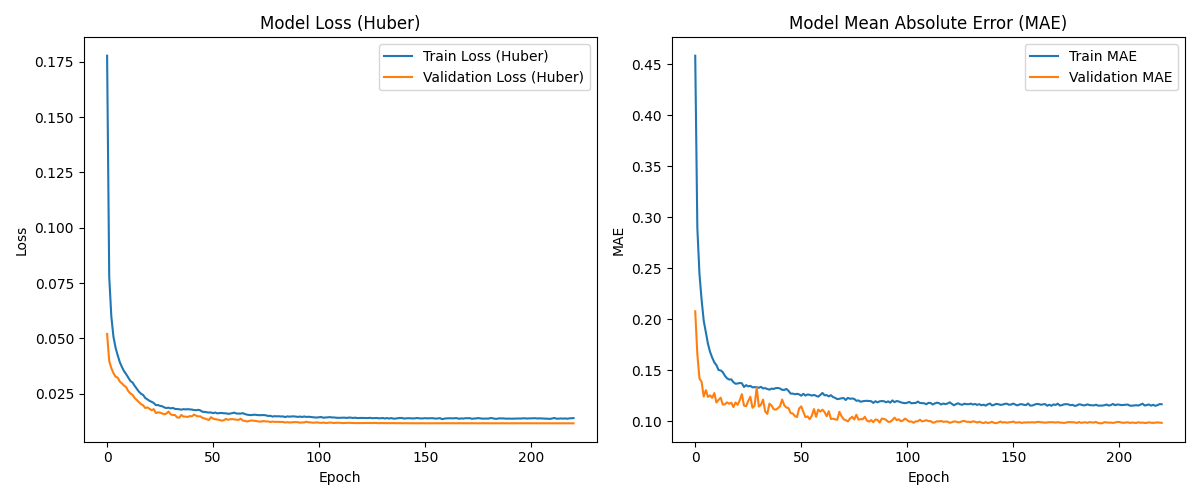
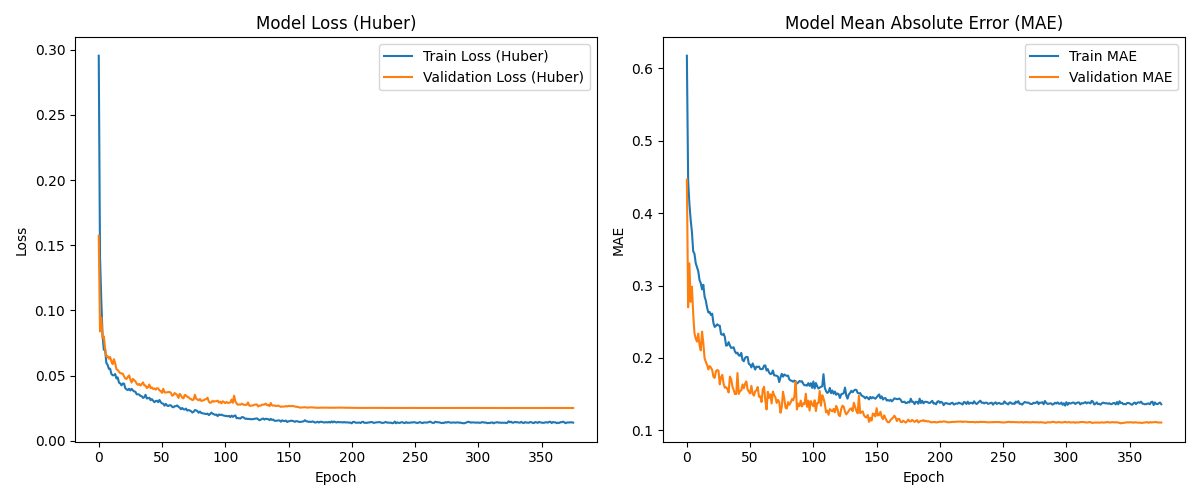
CLAUD.md更新

diff --git a/search_network_architecture.py b/search_network_architecture.py
@@ -1,0 +1,189 @@
+# -*- coding: utf-8 -*-
+"""
+train_reward_network2.py のネットワーク構成探索スクリプト
+
+隠れ層の深さ（1～3層）× ユニット数（256～16、2の累乗）×
+構成パターン（全層同一 / ピラミッド型・半減）を総当たりで学習し、
+val_loss / val_MAE を比較して最良の構成を探す。
+
+- 前処理・train/test分割（stratify, random_state=42）は全構成で共通
+- 損失関数・最適化・正則化は train_reward_network2.py と同一条件
+- 各構成を3シードで学習し平均±標準偏差で評価（乱数の影響を抑制）
+- 出力層は回帰問題のため恒等関数（linear）で固定
+"""
+import os
+import json
+import time
+import numpy as np
+import pandas as pd
+import tensorflow as tf
+from tensorflow.keras.models import Sequential
+from tensorflow.keras.layers import Dense, Input, Dropout, BatchNormalization, Activation
+from tensorflow.keras.regularizers import l2
+from tensorflow.keras.callbacks import EarlyStopping, ReduceLROnPlateau
+from tensorflow.keras.losses import Huber
+from sklearn.model_selection import train_test_split
+from sklearn.preprocessing import StandardScaler
+
+# 前処理・重み計算は本体スクリプトのものをそのまま使う（条件を完全一致させる）
+from train_reward_network2 import (
+    load_and_preprocess_data,
+    compute_bin_sample_weights,
+    custom_accuracy,
+)
+
+# ===== 探索設定 =====
+UNITS_LIST = [256, 128, 64, 32, 16]  # 第一層のユニット数
+DEPTHS = [1, 2, 3]                   # 隠れ層の深さ
+SCHEMES = ['uniform', 'pyramid']     # 全層同一 / 半減ピラミッド
+SEEDS = [42, 123, 2024]              # 3シード平均
+EPOCHS = 300
+ES_PATIENCE = 20
+LR_PATIENCE = 8
+RESULT_CSV = 'architecture_search_results.csv'
+
+
+def make_layer_units(first_units, depth, scheme):
+    """構成パターンに応じた各層のユニット数リストを返す"""
+    if scheme == 'uniform':
+        return [first_units] * depth
+    # pyramid: 半減（例: 128 -> [128, 64, 32]）
+    return [max(first_units // (2 ** i), 1) for i in range(depth)]
+
+
+def build_model(input_dim, layer_units):
+    """train_reward_network2.build_model と同一方針で任意構成のモデルを構築"""
+    l2_reg = l2(1e-4)
+    # Dropout率は現行モデル（0.3, 0.2, 0.1）に合わせ、層が進むごとに0.1ずつ減衰
+    dropout_rates = [max(0.3 - 0.1 * i, 0.1) for i in range(len(layer_units))]
+
+    model = Sequential()
+    model.add(Input(shape=(input_dim,)))
+    for units, rate in zip(layer_units, dropout_rates):
+        model.add(Dense(units, kernel_regularizer=l2_reg))
+        model.add(BatchNormalization())
+        model.add(Activation('relu'))
+        model.add(Dropout(rate))
+    # 回帰問題のため出力層は恒等関数
+    model.add(Dense(1, activation='linear'))
+
+    optimizer = tf.keras.optimizers.Adam(learning_rate=1e-3, clipnorm=1.0)
+    model.compile(optimizer=optimizer, loss=Huber(delta=1.0),
+                  metrics=['mae', custom_accuracy])
+    return model
+
+
+def main():
+    # ===== データ準備（全構成で共通） =====
+    X, y, feature_cols = load_and_preprocess_data('train_reward_csv_direct')
+    print(f"入力特徴量次元数: {X.shape[1]}")
+
+    _, bin_idx_all = compute_bin_sample_weights(y)
+    X_train, X_test, y_train, y_test = train_test_split(
+        X, y, test_size=0.2, random_state=42, stratify=bin_idx_all
+    )
+    train_sample_weight, _ = compute_bin_sample_weights(y_train)
+
+    scaler = StandardScaler()
+    X_train_scaled = scaler.fit_transform(X_train)
+    X_test_scaled = scaler.transform(X_test)
+    print(f"学習データ数: {X_train.shape[0]}, テストデータ数: {X_test.shape[0]}")
+
+    # ===== 構成リスト生成（1層はuniform/pyramidが同一なので重複排除） =====
+    configs = []
+    seen = set()
+    for scheme in SCHEMES:
+        for depth in DEPTHS:
+            for units in UNITS_LIST:
+                layer_units = make_layer_units(units, depth, scheme)
+                key = tuple(layer_units)
+                if key in seen:
+                    continue
+                seen.add(key)
+                configs.append({'scheme': scheme, 'depth': depth,
+                                'first_units': units, 'layer_units': layer_units})
+
+    total_runs = len(configs) * len(SEEDS)
+    print(f"検証構成数: {len(configs)}, 総学習回数: {total_runs}")
+
+    results = []
+    run_count = 0
+    t_start = time.time()
+
+    for cfg in configs:
+        seed_records = []
+        for seed in SEEDS:
+            run_count += 1
+            np.random.seed(seed)
+            tf.random.set_seed(seed)
+            tf.keras.backend.clear_session()
+
+            model = build_model(X_train_scaled.shape[1], cfg['layer_units'])
+            n_params = model.count_params()
+
+            early_stop = EarlyStopping(monitor='val_loss', patience=ES_PATIENCE,
+                                       restore_best_weights=True)
+            reduce_lr = ReduceLROnPlateau(monitor='val_loss', factor=0.5,
+                                          patience=LR_PATIENCE, min_lr=1e-6, verbose=0)
+
+            history = model.fit(
+                X_train_scaled, y_train,
+                sample_weight=train_sample_weight,
+                validation_data=(X_test_scaled, y_test),
+                epochs=EPOCHS,
+                batch_size=64,
+                callbacks=[early_stop, reduce_lr],
+                verbose=0
+            )
+
+            # restore_best_weights=True なので best weights で評価
+            eval_res = model.evaluate(X_test_scaled, y_test, verbose=0)
+            val_loss, val_mae, val_acc = eval_res[0], eval_res[1], eval_res[2]
+            best_epoch = int(np.argmin(history.history['val_loss'])) + 1
+            n_epochs = len(history.history['val_loss'])
+
+            seed_records.append({
+                'seed': seed, 'val_loss': val_loss, 'val_mae': val_mae,
+                'val_acc': val_acc, 'best_epoch': best_epoch, 'epochs': n_epochs,
+            })
+            elapsed = time.time() - t_start
+            print(f"[{run_count}/{total_runs}] {cfg['layer_units']} seed={seed} "
+                  f"val_loss={val_loss:.5f} val_mae={val_mae:.5f} "
+                  f"acc={val_acc:.3f} ep={best_epoch}/{n_epochs} "
+                  f"({elapsed/60:.1f}分経過)", flush=True)
+
+        losses = [r['val_loss'] for r in seed_records]
+        maes = [r['val_mae'] for r in seed_records]
+        accs = [r['val_acc'] for r in seed_records]
+        results.append({
+            'scheme': cfg['scheme'],
+            'depth': cfg['depth'],
+            'first_units': cfg['first_units'],
+            'layer_units': json.dumps(cfg['layer_units']),
+            'n_params': n_params,
+            'val_loss_mean': np.mean(losses),
+            'val_loss_std': np.std(losses),
+            'val_mae_mean': np.mean(maes),
+            'val_mae_std': np.std(maes),
+            'val_acc_mean': np.mean(accs),
+            'val_acc_std': np.std(accs),
+            'best_epoch_mean': np.mean([r['best_epoch'] for r in seed_records]),
+        })
+        # 途中経過を逐次保存（中断しても結果が残るように）
+        pd.DataFrame(results).to_csv(RESULT_CSV, index=False, encoding='utf-8-sig')
+
+    df = pd.DataFrame(results).sort_values('val_mae_mean')
+    df.to_csv(RESULT_CSV, index=False, encoding='utf-8-sig')
+
+    print("\n===== 結果（val_MAE平均の昇順・上位10件） =====")
+    print(df.head(10).to_string(index=False))
+    best = df.iloc[0]
+    print(f"\n最良構成: {best['layer_units']} ({best['scheme']}) "
+          f"val_loss={best['val_loss_mean']:.5f}±{best['val_loss_std']:.5f} "
+          f"val_mae={best['val_mae_mean']:.5f}±{best['val_mae_std']:.5f}")
+    print(f"結果を '{RESULT_CSV}' に保存しました。")
+    print(f"総所要時間: {(time.time() - t_start)/60:.1f}分")
+
+
+if __name__ == "__main__":
+    main()

diff --git a/CLAUDE.md b/CLAUDE.md
@@ -12,3 +12,77 @@
 - train_reward_network3.pyは出力値を分類問題としている
 - 回帰問題のNNを適用しているのがapex2.py，分類問題のNNを適用しているのがapex3.pyである
 - apex2.pyを基本的に使用して研究を行っていく
+
+## 実行環境
+- uvで管理されたPython 3.11の仮想環境（`.venv/`）を使用する
+- 依存パッケージは`requirements.txt`を参照（TensorFlow 2.15 / Ray 2.54 / pandas / scikit-learn / openai 等）
+- LLM API（evaluate_csv_with_llm.py, test_prompt_speed.py）を使う場合は`.env`に`LLM_API_URL`・`LLM_API_KEY`の設定が必要
+
+## 研究パイプラインとデータフロー
+本プロジェクトは大きく3段階のパイプラインで構成される。
+
+1. **LLMによるデータセット作成**
+   `評価用csv/`（シミュレータの走行ログ）→ `evaluate_csv_with_llm.py` がLLM APIにノッチ操作を評価させる → `評価済ログ/llm_evaluated_dataset.csv` を出力
+2. **報酬予測NNの蒸留学習**
+   `train_reward_csv_direct/`内の評価済みデータを`train_reward_network2.py`（回帰）/ `train_reward_network3.py`（分類）が読み込み学習 → `direct_reward_model*.h5` ＋ `*_scaler.pkl` を生成
+3. **Apex DQNへの組み込み**
+   `apex2.py`が`environment2.py`経由で学習済みNNをロードし、報酬関数として利用しながらRay分散でDQN学習を行う（学習結果は`data/`以下に出力）
+
+NNは3系統存在し、対応関係は以下の通り（詳細は`analyze_reward_nn_vs_llm.py`冒頭のコメント参照）。
+
+| 系統 | 学習スクリプト | モデル | 予測器 | 環境 | Apexスクリプト |
+|---|---|---|---|---|---|
+| 旧回帰 | train_reward_network.py | direct_reward_model.h5 | direct_reward_predictor.py | environment.py | apex.py |
+| 回帰（現行） | train_reward_network2.py | direct_reward_model2.h5 | direct_reward_predictor2.py | environment2.py | apex2.py（★基本使用） |
+| 分類 | train_reward_network3.py | classification_reward_model.h5 | direct_reward_predictor3.py | environment3.py | apex3.py |
+
+## ディレクトリ構成
+- `input/` — シミュレーション条件の設定CSV（駅位置・速度制限・曲線・勾配・ダイヤ・遅延パターン等）。`track.py`や`environment*.py`が参照する固定データ
+- `data/` — `apex*.py`実行時の学習ログ・重み（`*.weights.h5`）・走行ダイアグラム等の出力先
+- `評価用csv/` — LLM評価前のシミュレータ走行ログ（`evaluate_csv_with_llm.py`の入力）
+- `評価済ログ/` — LLM評価済みデータセット（`evaluate_csv_with_llm.py`の出力）
+- `train_reward_csv_direct/` — 報酬予測NNの学習に実際に使用するCSV置き場（`train_reward_network*.py`が直接読み込む）
+- `csv_direct_plas/`, `dataset（0～1.0）/` — LLM評価済みデータの中間・派生データ置き場
+- `comp/` — `evaluate_result.py`で比較対象とする個別走行ログCSV置き場
+- `*.h5` / `*.pkl`（リポジトリ直下） — 学習済み報酬予測NNの重みとスケーラ
+- `apex_def.py` / `environment_def.py` — 先行研究で使用していた実装。現行のどのスクリプトからも参照されていないため**書き換え禁止**
+
+## 主要スクリプトの役割
+
+### 強化学習（Apex DQN）本体
+- `apex.py` / `apex2.py` / `apex3.py` — Rayを用いた分散Apex DQN学習のエントリポイント（Actor/Learner/Testerで構成）。それぞれ旧回帰NN／回帰NN／分類NNを報酬関数として使用
+- `environment.py` / `environment2.py` / `environment3.py` — 列車制御タスクの環境（`Environment`クラス）。状態の正規化、報酬計算、対応する`direct_reward_predictor*.py`の呼び出しを担当
+- `model.py` — `QNetwork`（Dense 5層のQ関数モデル）
+- `train.py` — 列車の運動モデル（`Train`クラス）。加速・減速・惰行時の物理シミュレーションを行う共通ロジック
+- `track.py` — 路線データ（速度制限・曲線・勾配・ダイヤ）の読み込み
+- `actions.py` — 行動定義（`coasting`＝惰行／`acceleration`＝加速／`deceleration`＝減速）
+- `segment_tree.py` — 優先度付き経験再生用の`SumTree`実装
+- `required_speed.py` — 必要速度（巡航速度）・ブレーキ停止距離の算出ロジック。`evaluate_csv_with_llm.py`（LLM評価プロンプト生成）と`environment2.py`/`environment3.py`（NN学習・推論）の両方から参照され、算出方法を一致させるための共通モジュール
+- `generate_forward_train.py` — 先行列車用の走行制御パターンCSV（`input/f_train_*.csv`）を生成するスクリプト
+
+### LLMによるデータセット作成
+- `evaluate_csv_with_llm.py` — `評価用csv/`内の走行ログをLLM APIに送り、ノッチ操作の評価（報酬値・理由）を取得して`評価済ログ/`に出力
+- `test_prompt_speed.py` — LLM APIへのプロンプト送信・応答時間計測用スクリプト
+
+### 報酬予測NN（蒸留）の学習・評価
+- `train_reward_network.py` / `train_reward_network2.py` / `train_reward_network3.py` — LLM評価済みデータセットから報酬予測NNを学習（それぞれ旧回帰／回帰／分類）
+- `direct_reward_predictor.py` / `direct_reward_predictor2.py` / `direct_reward_predictor3.py` — 学習済みNNをロードして推論する予測器クラス（各`environment*.py`から利用される）
+- `reward_predictor.py` — `RewardWeightPredictor`。環境要素ごとの重み付けを予測する旧方式の予測器（`environment.py`のみが使用）
+- `analyze_reward_nn_vs_llm.py` — LLMラベル分布と3系統のNN出力分布を比較・可視化し、LLM／NNそれぞれの評価の妥当性を検証する
+- `check_reward_distribution.py` — `train_reward_csv_direct/`内データの報酬分布を可視化
+- `evaluate_result.py` — 個別走行ログCSV（`comp/`）に対する報酬の比較・検証
+
+## 実行コマンド例
+```bash
+# 回帰NNを報酬関数として使うApex DQN学習（本研究で基本的に使用）
+python apex2.py
+
+# 回帰NNの学習（train_reward_csv_direct/のデータを使用）
+python train_reward_network2.py
+
+# LLMによるデータセット評価（.envにLLM_API_URL/LLM_API_KEYが必要）
+python evaluate_csv_with_llm.py
+
+# NN出力とLLMラベルの分布比較
+python analyze_reward_nn_vs_llm.py
+```